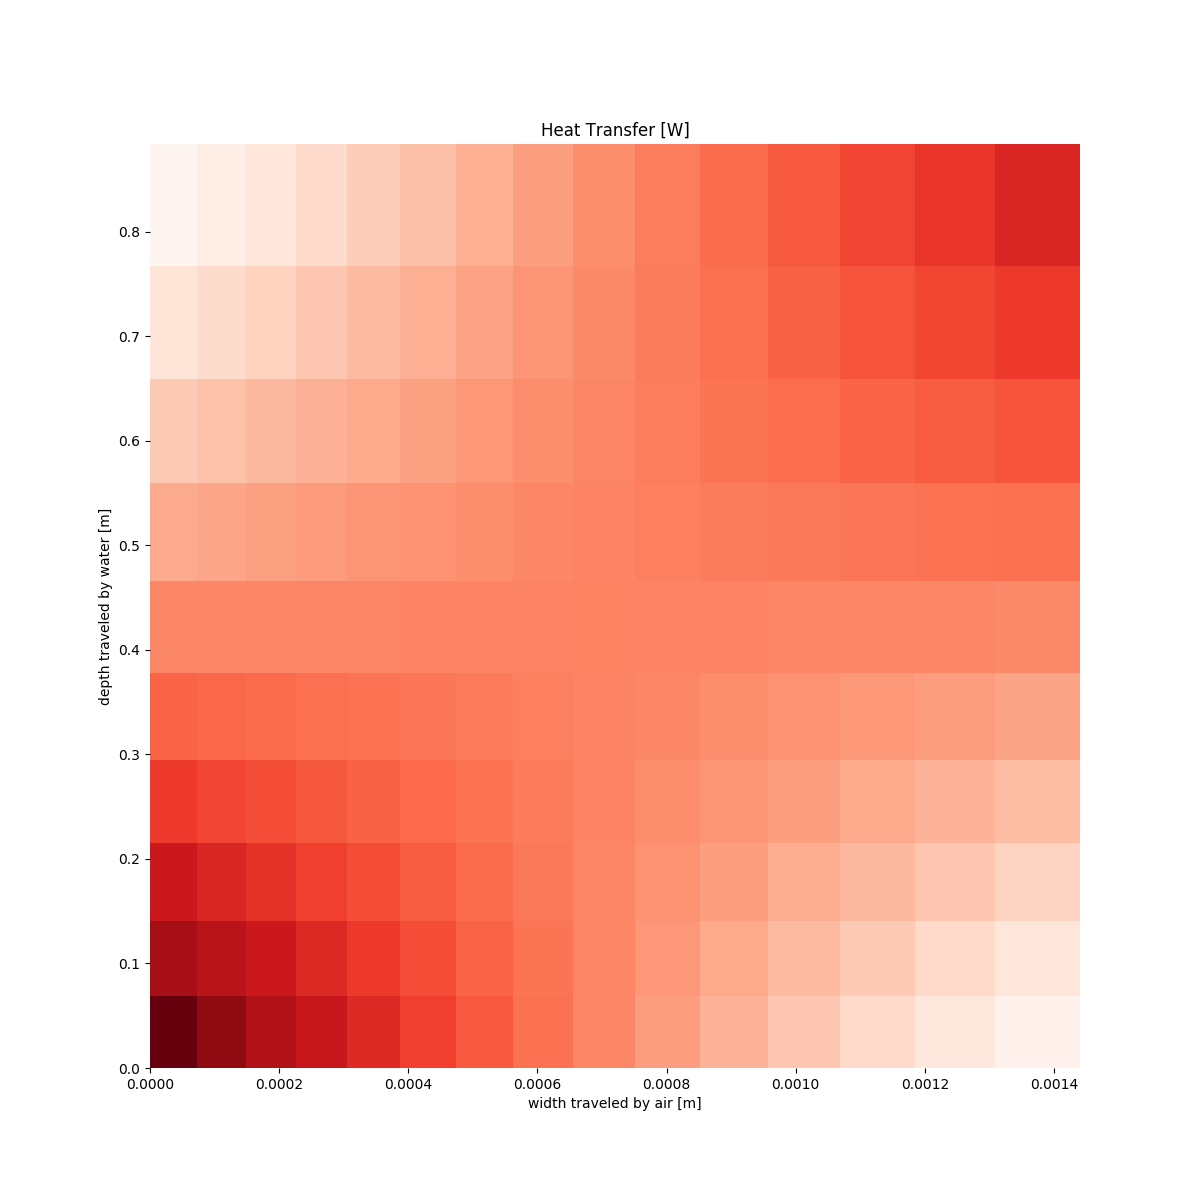
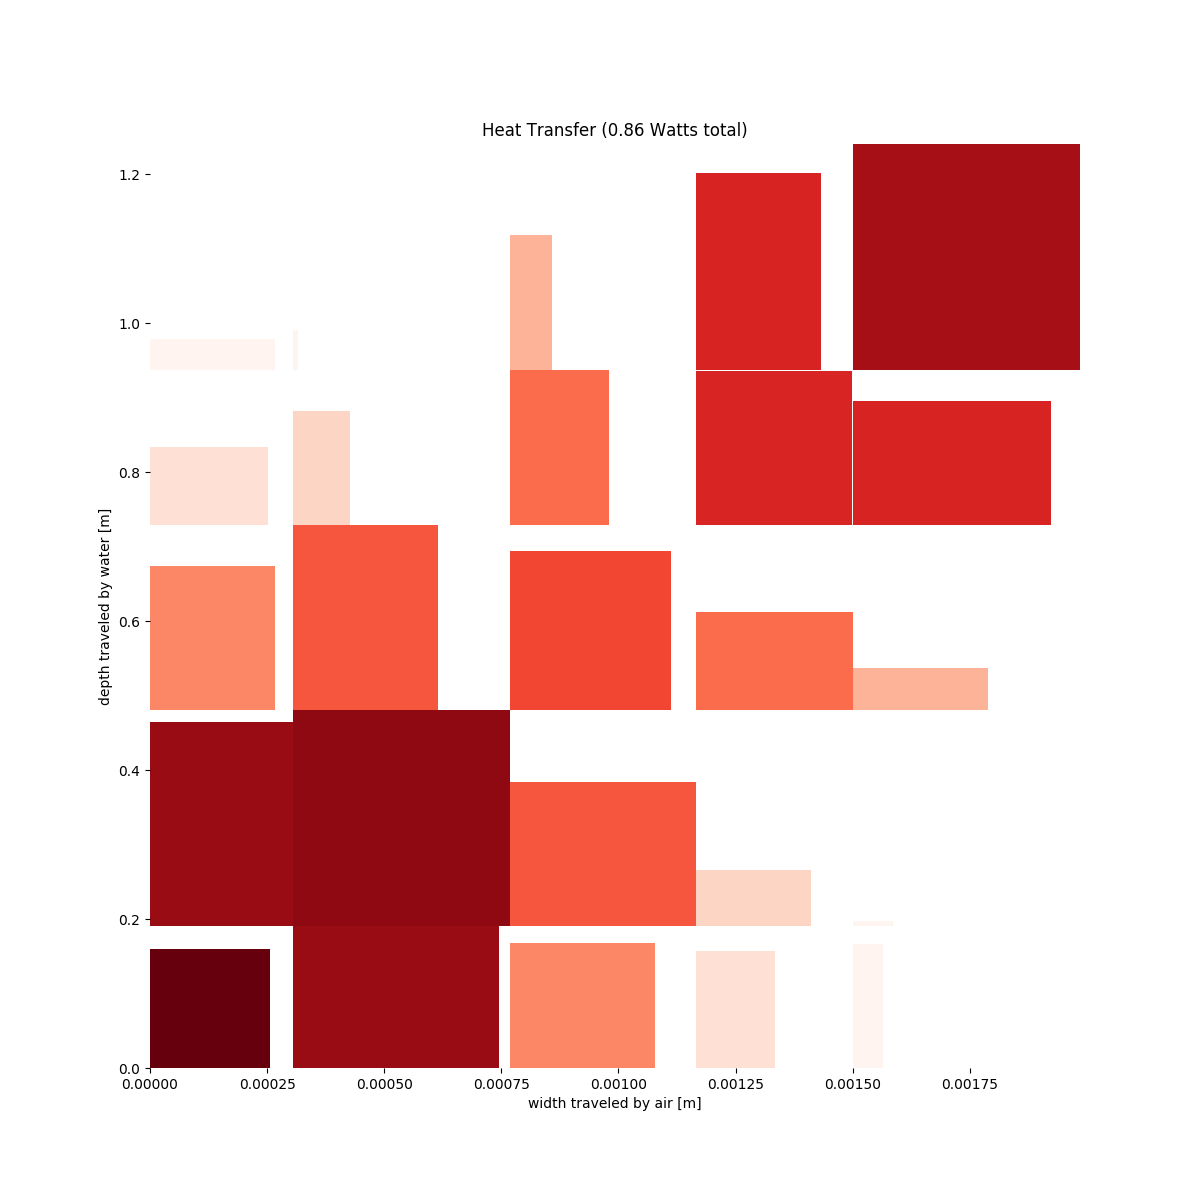
add freewidth files

diff --git a/heatexchanger/rectpipe_freewidth.py b/heatexchanger/rectpipe_freewidth.py
@@ -1,0 +1,49 @@
+from gpkit import Model, parse_variables
+
+
+class RectangularPipe(Model):
+    """
+    Variables
+    ---------
+    mdot     [kg/s]   mass flow rate
+    T_in     [K]      input temperature
+    v_in     [m/s]    input velocity
+    h        [m]      pipe height
+
+    Variables of length Nsegments+1
+    -------------------------------
+    v        [m/s]    fluid velocity
+    T        [K]      fluid temperature
+    w        [m]      pipe width
+    A        [m^2]    pipe area
+
+    Variables of length Nsegments
+    -----------------------------
+    dT       [K]      Change in fluid temperature over segment
+    dQ       [W]      Magnitude of heat transfer over segment
+
+    Upper Unbounded
+    ---------------
+    v_after_input, w, h, mdot, T_out (if increasingT)
+
+    Lower Unbounded
+    ---------------
+    w, dQ, T_out (if not increasingT)
+
+    """
+    def setup(self, Nsegments, fluid, increasingT):
+        exec parse_variables(RectangularPipe.__doc__)
+        self.increasingT = increasingT
+        self.T_out = T[-1]
+        self.v_after_input = v[1:]
+        if increasingT:
+            temp = T[1:] >= T[:-1] + dT
+        else:
+            temp = T[:-1] >= T[1:] + dT
+        return [
+            fluid, temp,
+            T[0] == T_in, v[0] == v_in,
+            mdot == fluid.rho*v*A,
+            A == w*h,
+            dQ <= mdot*fluid.c*dT,
+        ]

diff --git a/heatexchanger/cellplot_freewidth.py b/heatexchanger/cellplot_freewidth.py
@@ -10,8 +10,8 @@ def plot_cells(m, Z, cm=cm.RdBu_r, verbosity=0, zscale=None, zoff=None):
     for i in range(m.Nwaterpipes):
         wpos = 0
         for j in range(m.Nairpipes):
-            wcell = sol(m.airpipes.w)[j].magnitude
-            dcell = sol(m.waterpipes.w)[i].magnitude
+            wcell = sol(m.airpipes.w[j, i]).magnitude
+            dcell = sol(m.waterpipes.w[i, j]).magnitude
             if not zscale:
                 z = ((Z[j, i] - Zmin)/(Zmax-Zmin)).magnitude
             else:
@@ -25,9 +25,9 @@ def plot_cells(m, Z, cm=cm.RdBu_r, verbosity=0, zscale=None, zoff=None):
                 else:
                     labelx += 0.4*dcell
                 a.text(labelx, labely, label)
-            wpos += wcell
+            wpos += sol(m.airpipes.w).magnitude[j, :].max()
             a.add_patch(r)
-        dpos += dcell
+        dpos += sol(m.waterpipes.w).magnitude[i, :].max()
     ylim([0, wpos])
     xlim([0, dpos])
     a.set_frame_on(False)
@@ -37,7 +37,7 @@ def plot_cells(m, Z, cm=cm.RdBu_r, verbosity=0, zscale=None, zoff=None):
 
 
 if __name__ == "__main__":
-    from layer import Layer
+    from layer_freewidth import Layer
     Nw, Na = 5, 5
     m = Layer(Nw, Na)
     m.cost = 1/m.Q

diff --git a/heatexchanger/layer_freewidth.py b/heatexchanger/layer_freewidth.py
@@ -1,7 +1,7 @@
 from gpkit import Model, parse_variables, Vectorize, SignomialsEnabled
 from fluids import Air, Water
 from hxarea import HXArea
-from rectpipe import RectangularPipe
+from rectpipe_freewidth import RectangularPipe
 
 
 class Layer(Model):
@@ -54,10 +54,10 @@ class Layer(Model):
             V >= d*w*h,
             h >= h_liq + h_air,
             waterpipes,
-            d >= waterpipes.w.sum(),
+            d >= waterpipes.w.sum(axis=1),
             h_liq == waterpipes.h,
             airpipes,
-            w >= airpipes.w.sum(),
+            w >= airpipes.w.sum(axis=1),
             h_air == airpipes.h,
 
             # CONSERVATION OF HEAT
@@ -66,7 +66,7 @@ class Layer(Model):
             c.dQ == airpipes.dQ.T,   # airpipes are rotated 90deg
 
             # HEAT EXCHANGE
-            c, c.A_hx == airpipes.w.outer(waterpipes.w),
+            c, c.A_hx == (airpipes.w[1:].T*waterpipes.w[1:]*airpipes.w[:-1].T*waterpipes.w[:-1])**0.5,
             c.T_hot == waterpipes.T[1:],  # Tcell = Tout (conservative)
             # NOTE: cell temperature could instead be a geometric mean
             #       of input and output
